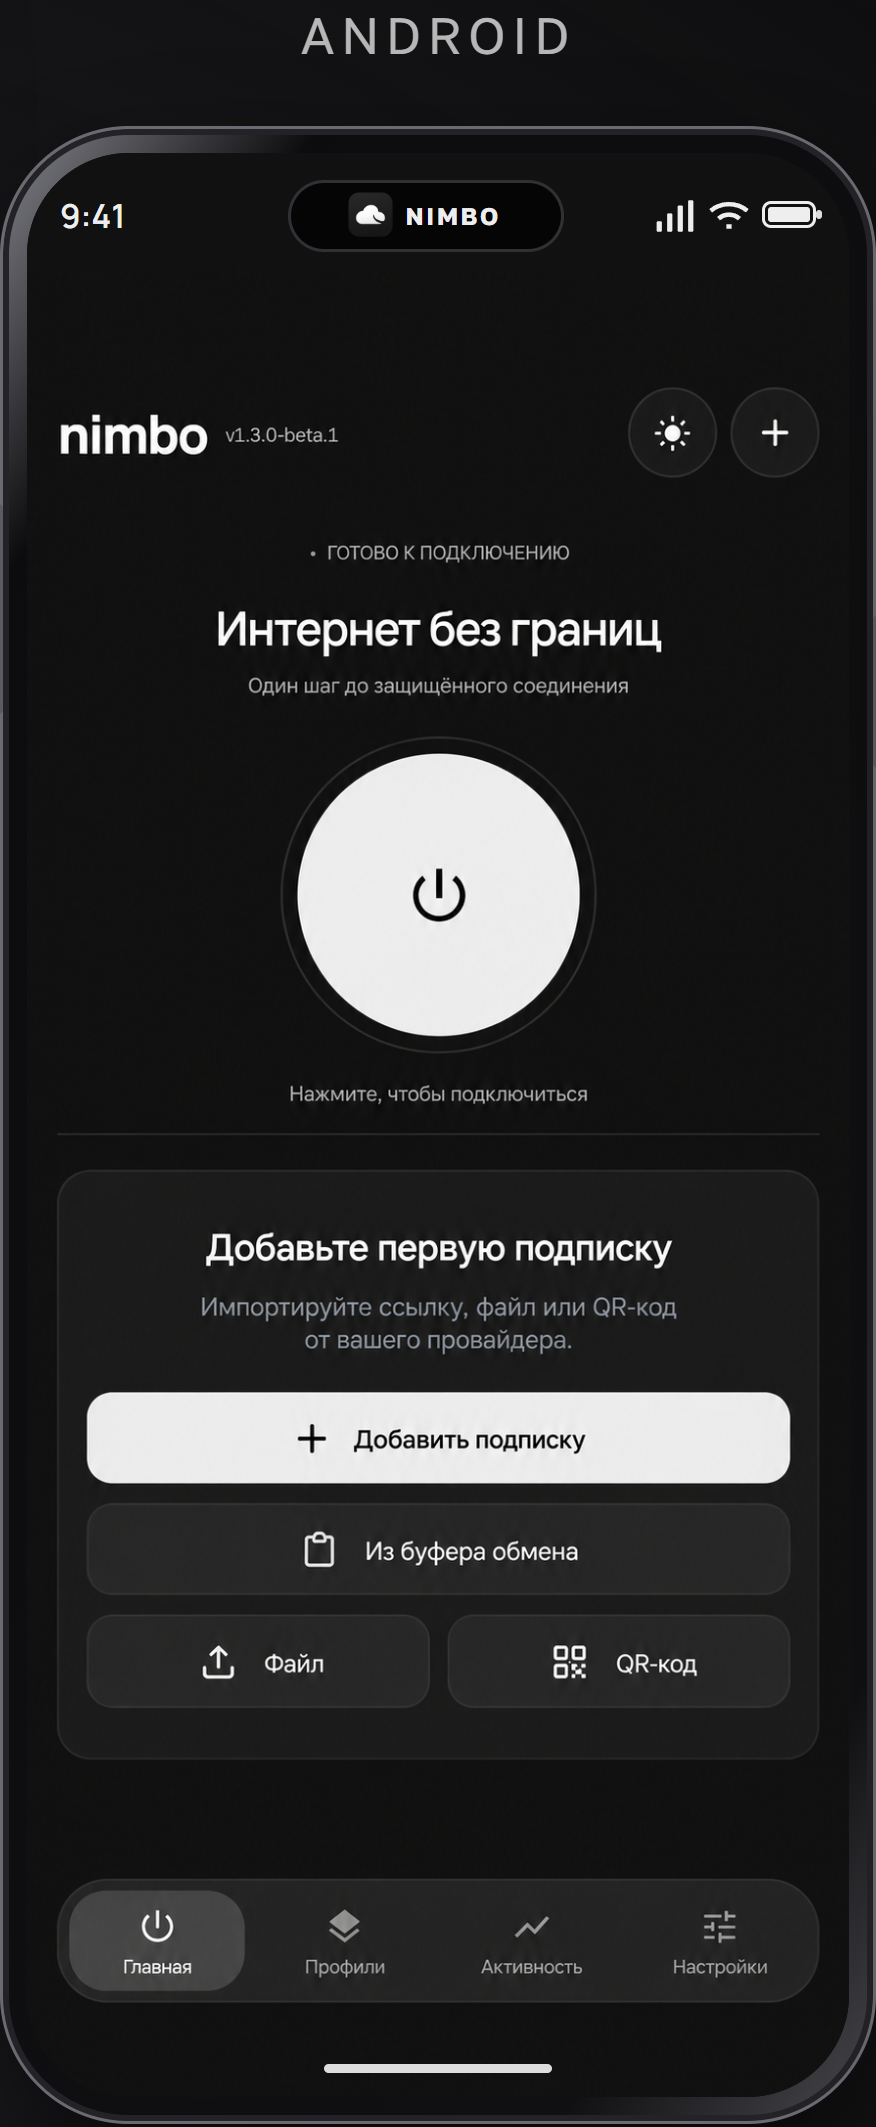
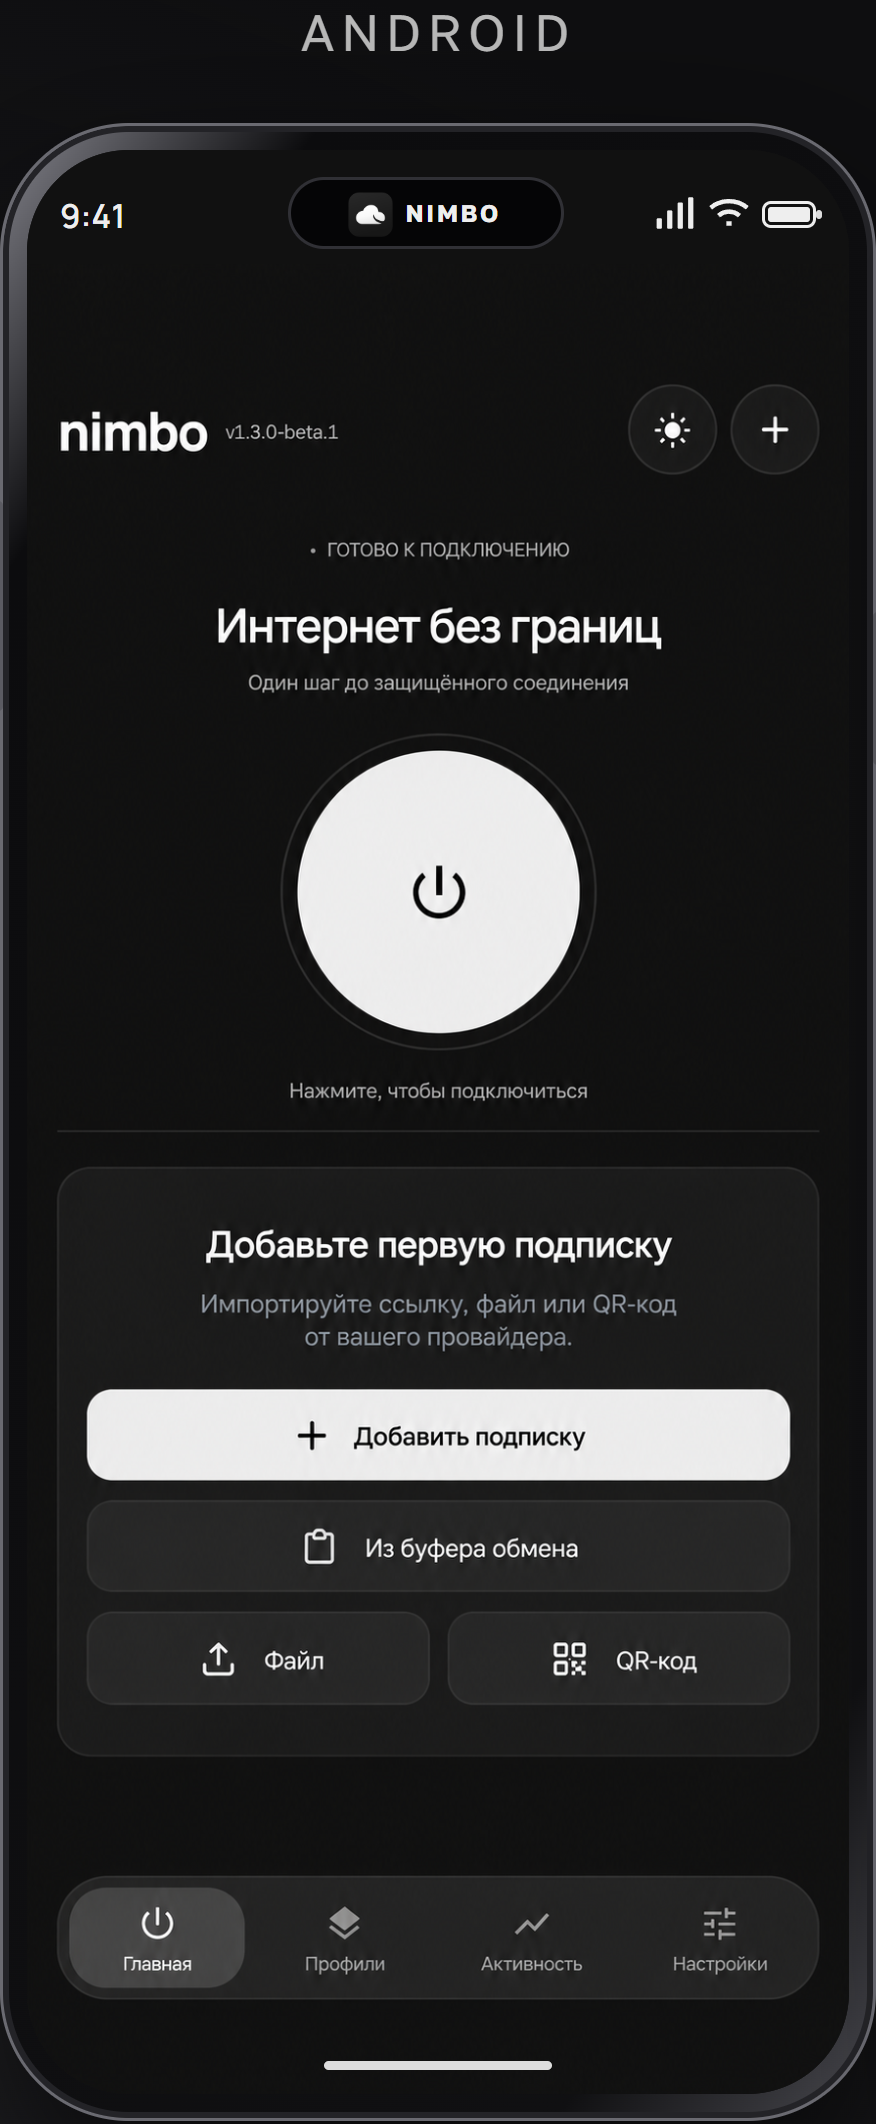
Modernize preview monitor with thin bezel and true widescreen UI renders

diff --git a/docs/previews/device-showcase.html b/docs/previews/device-showcase.html
@@ -8,6 +8,13 @@
 .phone-screen{position:relative}.phone-screen:after{content:'';position:absolute;bottom:8px;left:36%;width:28%;height:3px;background:#ddd;border-radius:3px}.ios-nav{position:absolute;left:9px;right:9px;bottom:26px;display:flex;padding:4px;background:#29292ce8;border:1px solid #414145;border-radius:26px;backdrop-filter:blur(10px)}.ios-nav span{display:flex;flex:1;min-width:0;flex-direction:column;align-items:center;gap:4px;padding:8px 2px;color:#aaa;font:500 7px 'Golos Text',sans-serif}.ios-nav .active{background:#414144;border-radius:23px;color:#eee}.ios-nav svg{width:17px;height:17px;fill:none;stroke:currentColor;stroke-width:1.7;stroke-linecap:round;stroke-linejoin:round}
 </style>
 <style>
+/* Modern 16:9 display; screenshots are rerendered at that ratio, never stretched. */
+.monitor-bezel{border-radius:14px;padding:7px 7px 9px;background:linear-gradient(135deg,#424247,#17171a 24%,#0a0a0c 76%,#35353a);box-shadow:0 23px 60px #0009,inset 0 0 0 1px #6668}
+.monitor img{border-radius:7px}.monitor-chin{height:4px}.monitor-chin i{width:2px;height:2px;margin-top:2px;background:#535358}
+.stand{width:62px;height:100px;background:linear-gradient(90deg,#25252a,#73737c 42%,#383840);clip-path:polygon(32% 0,68% 0,88% 100%,12% 100%)}
+.base{width:220px;height:9px;border-radius:45% 45% 5px 5px;background:linear-gradient(#76767e,#3a3a40 50%,#202024);box-shadow:0 8px 18px #0008}
+</style>
+<style>
 .phone-screen{overflow:hidden;border-radius:34px;background:#111}.phone .phone-screen img{border-radius:0 0 33px 33px}.statusbar{height:38px;display:flex;align-items:center;justify-content:space-between;padding:7px 11px 3px;background:#111;font:600 11px Manrope,sans-serif;color:#eee}.status-time{width:45px}.status-pill{display:flex;align-items:center;justify-content:center;gap:4px;border:1px solid #303035;border-radius:18px;background:#050506;width:92px;height:24px;font:700 8px 'Golos Text',sans-serif;letter-spacing:.8px}.statusbar .status-pill img{width:15px;height:15px;border-radius:4px}.status-icons{display:flex;align-items:center;gap:4px}.status-icons svg{width:14px;height:12px}.status-battery{height:9px;width:18px;border:1px solid #eee;border-radius:3px;position:relative;padding:1px}.status-battery:after{content:'';position:absolute;right:-3px;top:2px;width:2px;height:3px;background:#ddd;border-radius:1px}.status-battery i{display:block;height:5px;border-radius:1px;background:#eee}
 </style>
 <main class="stage"><header><img src="../../apps/ui/src-tauri/icons/icon.png" alt=""><strong>nimbo</strong></header><div class="devices">
